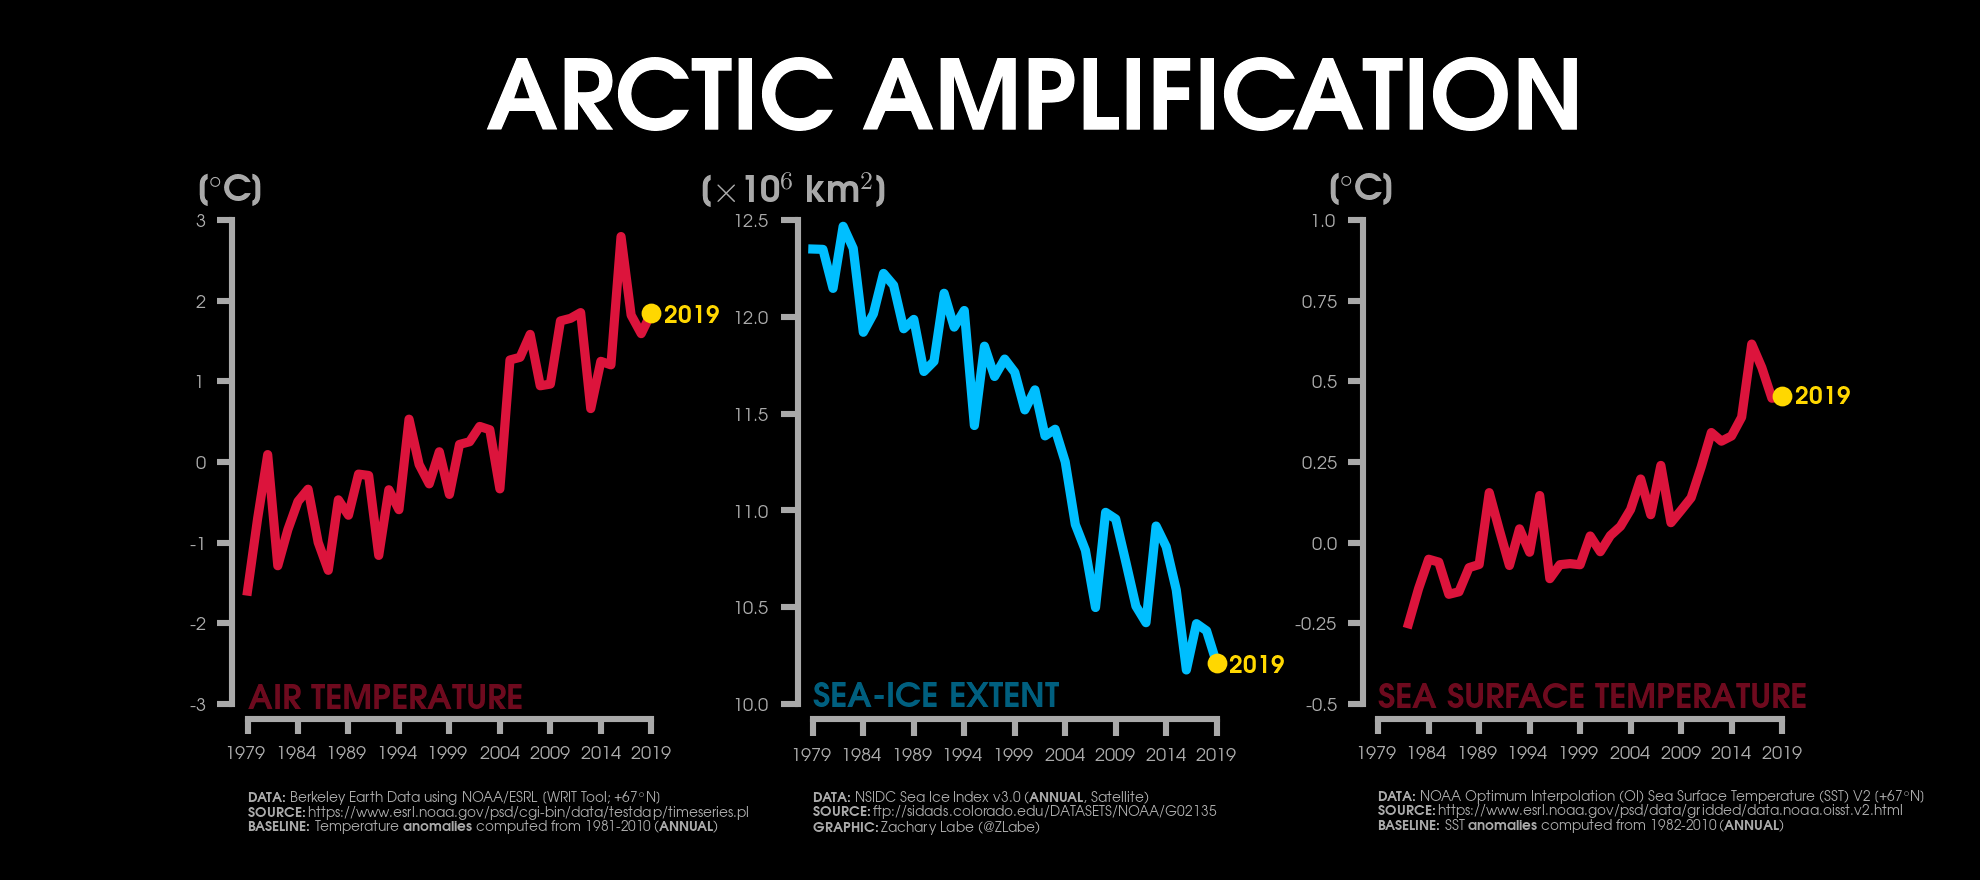
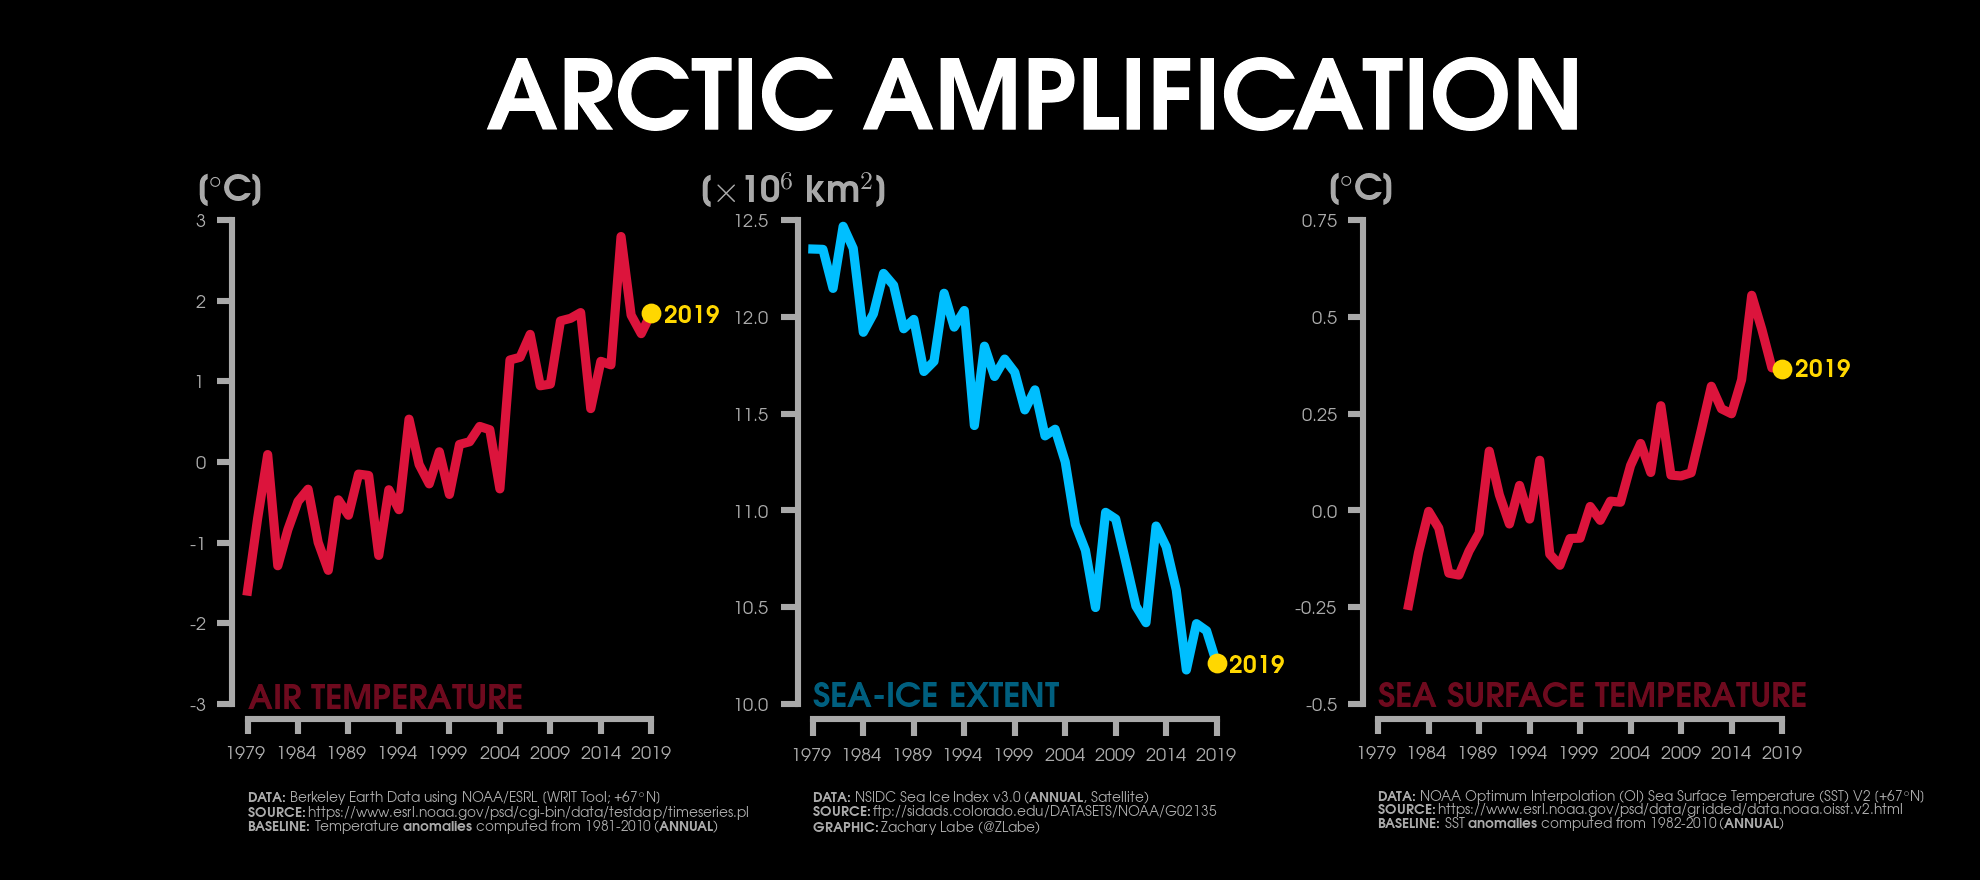
new mask

diff --git a/Scripts/SeaSurfaceTemperatures/plot_IceAlbedo_AA_MovingLines.py b/Scripts/SeaSurfaceTemperatures/plot_IceAlbedo_AA_MovingLines.py
@@ -217,32 +217,32 @@ xlabels = map(str,np.arange(1979,2020,5))
 plt.xticks(np.arange(1979,2020,5),xlabels,fontsize=6)
 ylabels = map(str,np.around(np.arange(-6,7,0.25),4))
 plt.yticks(np.arange(-6,7,0.25),ylabels,fontsize=6)
-plt.ylim([-0.5,1])
+plt.ylim([-0.5,0.75])
 plt.xlim([1979,2019])
 
-plt.text(1979,-0.8,r'\textbf{DATA:} NOAA Optimum Interpolation (OI) Sea Surface Temperature (SST) V2 [+67$\bf{^\circ}$N]',
+plt.text(1979,-0.75,r'\textbf{DATA:} NOAA Optimum Interpolation (OI) Sea Surface Temperature (SST) V2 [+67$\bf{^\circ}$N]',
          fontsize=4.5,rotation='horizontal',ha='left',color='darkgrey',alpha=1)
-plt.text(1979,-0.845,r'\textbf{SOURCE:} https://www.esrl.noaa.gov/psd/data/gridded/data.noaa.oisst.v2.html',
+plt.text(1979,-0.785,r'\textbf{SOURCE:} https://www.esrl.noaa.gov/psd/data/gridded/data.noaa.oisst.v2.html',
          fontsize=4.5,rotation='horizontal',ha='left',color='darkgrey',alpha=1)
-plt.text(1979,-0.89,r'\textbf{BASELINE:} SST \textbf{anomalies} computed from 1982-2010 (\textbf{ANNUAL})',
+plt.text(1979,-0.82,r'\textbf{BASELINE:} SST \textbf{anomalies} computed from 1982-2010 (\textbf{ANNUAL})',
          fontsize=4.5,rotation='horizontal',ha='left',color='darkgrey',alpha=1)
 
-plt.text(2020.25,0.43,r'\textbf{2019}',fontsize=8,color='gold',ha='left')
-plt.text(1974.2,1.09,r'\textbf{[$\bf{^\circ}$C]}',color='darkgrey',
+plt.text(2020.25,0.345,r'\textbf{2019}',fontsize=8,color='gold',ha='left')
+plt.text(1974.2,0.825,r'\textbf{[$\bf{^\circ}$C]}',color='darkgrey',
                            fontsize=12,va='center',alpha=1)
 
 fig.subplots_adjust(wspace=0.4)
 fig.subplots_adjust(top=0.75)
 fig.subplots_adjust(bottom=0.2)
 
-### Create animation using matplotlib
+#### Create animation using matplotlib
 def update(num,years,eq,tq,sq,ant,gre,sst,bar):
     ant.set_data(years[:num+1],eq[:num+1])
     ant.axes.axis([1979,2019,10,12.5])
     gre.set_data(years[:num+1],tq[:num+1])
     gre.axes.axis([1979,2019,-3,3])
     sst.set_data(years[:num+1],sq[:num+1])
-    sst.axes.axis([1979,2019,-0.5,1])
+    sst.axes.axis([1979,2019,-0.5,0.75])
     return bar,
 
 ani = animation.FuncAnimation(fig,update,70,fargs=[years,
